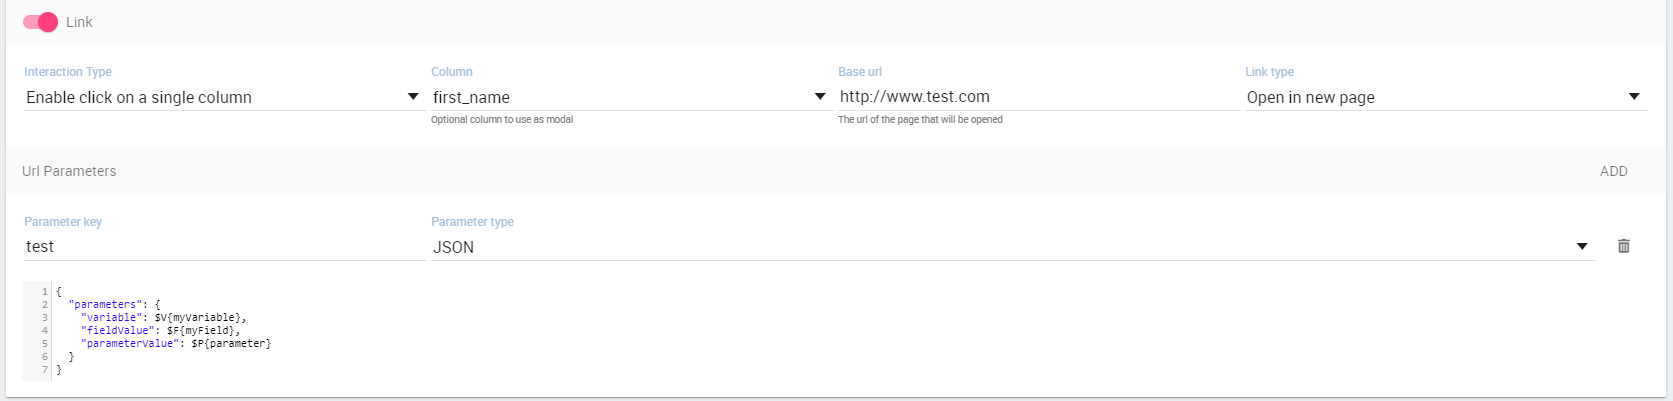
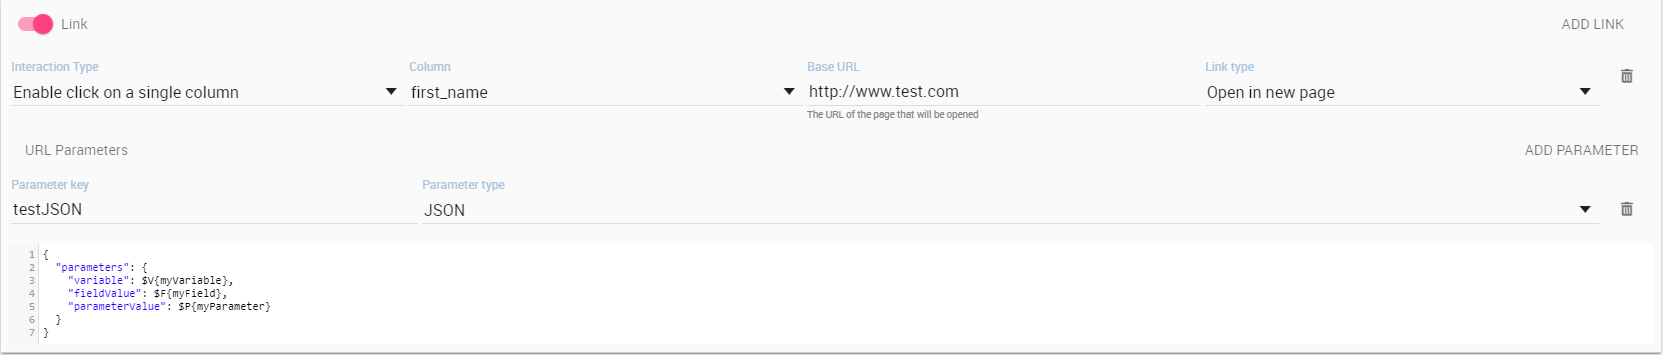
Added multiple link management in cross-navigation

diff --git a/functionalities-guide/cockpit/index.rst b/functionalities-guide/cockpit/index.rst
@@ -1566,7 +1566,8 @@ Once the user will click on the widget, those parameters will be evaluated befor
 
 The link configuration is very similar to the cross-navigation one too.
 First of all you will need to enable the link navigation using the switch button.
-After you will need to choose an interaction type and a base url. The base url will be the url opened by the user click.
+The you will be able to create one or more link navigations.
+You will need to choose an interaction type and a base url. The base url will be the url opened by the user click.
 You can also decide the type of link between the opening of a new page or the document replace opening in the same page.
 
 .. figure:: media/image215.png
